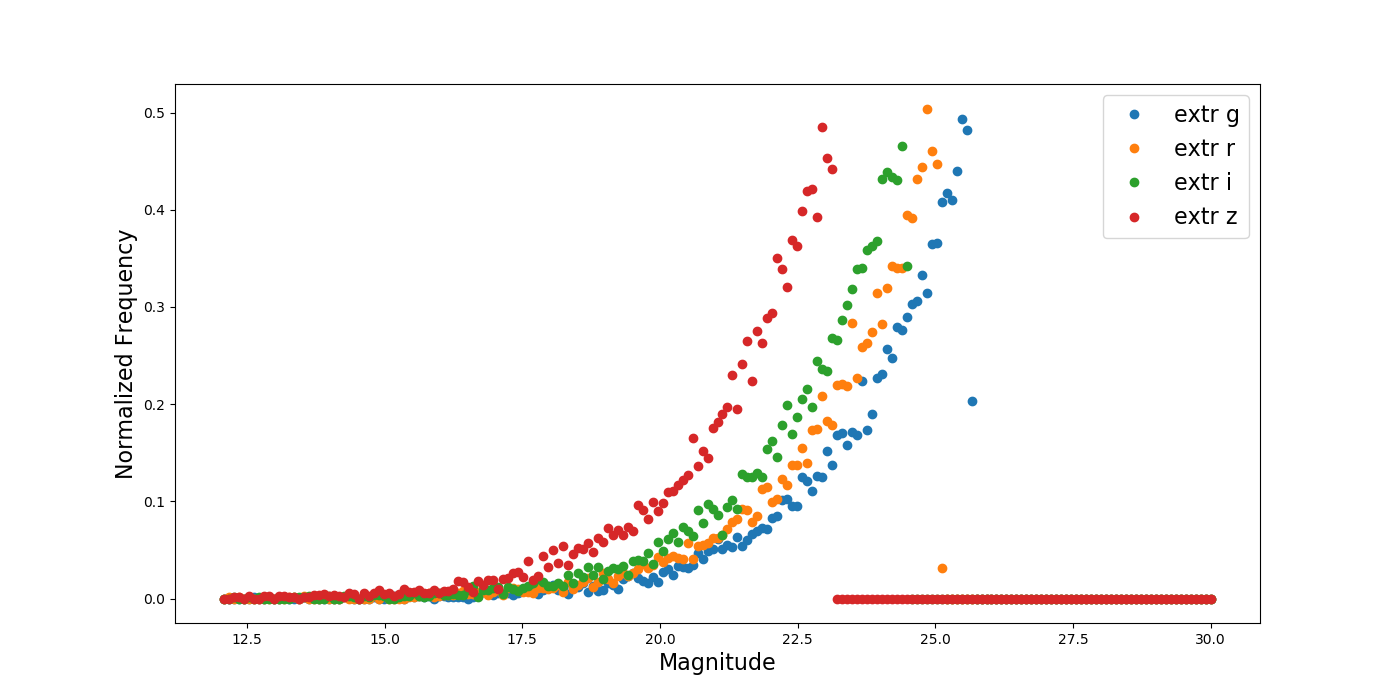
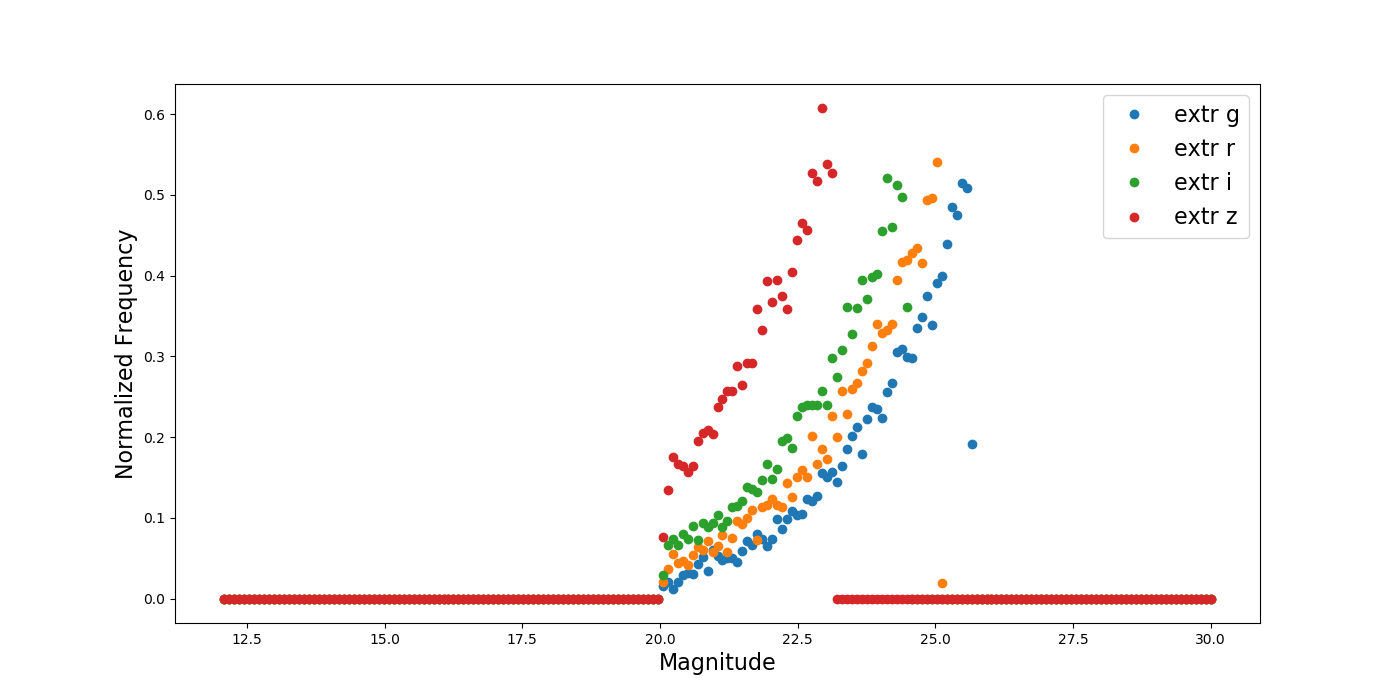
check sn explosion and gen_lightcurves, lightcurve class ready

diff --git a/lightcurve_sampling/lightcurves.py b/lightcurve_sampling/lightcurves.py
@@ -10,7 +10,6 @@ from custom_distribution import MagnitudeDistribution
 import matplotlib as mpl
 warnings.filterwarnings("ignore")
 
-
 class LightCurve(object):
     """Light curve main class"""
     def __init__(self, **kwargs):
@@ -18,7 +17,7 @@ class LightCurve(object):
         self.mag_generator = MagnitudeDistribution(**kwargs)
         self.bands = kwargs["bands"]
 
-    def generate_lightcurves(self, n_lightcurves, obs_days=None):
+    def generate_lightcurves(self, n_lightcurves, obs_days=None, distr_limits=None):
         """Returns a dictionary with keys per band with a list of light curves
         and dictionary with parameters of each light curve"""
         pass
@@ -29,13 +28,19 @@ class Asteroids(LightCurve):
     def __init__(self, **kwargs):
         super(Asteroids, self).__init__(**kwargs)
 
-    def generate_lightcurves(self, n_lightcurves, obs_days=None):
+    def generate_lightcurves(self, n_lightcurves, obs_days=None, distr_limits=None):
         if not obs_days:
             obs_days = self.observation_days
+        if distr_limits:
+            self.mag_generator.set_extrapolation_limits(distr_limits)
         lightcurves = {}
         mag_samples = self.mag_generator.sample(n_samples=n_lightcurves)
         time_samples = {}
         for band in self.bands:
+            if len(obs_days[band]) == 0:
+                mag_samples[band] = []
+                lightcurves[band] = np.array([])
+                continue
             time_samples[band] = np.random.randint(low=0, high=len(obs_days[band]))
             lightcurves[band] = np.ones(shape=(n_lightcurves, len(obs_days[band])))*40.0
             lightcurves[band][:, time_samples[band]] = mag_samples[band]
@@ -48,9 +53,11 @@ class Constant(LightCurve):
     def __init__(self,  mag_limit=25, **kwargs):
         super(Constant, self).__init__(**kwargs)
 
-    def generate_lightcurves(self, n_lightcurves, obs_days=None):
+    def generate_lightcurves(self, n_lightcurves, obs_days=None, distr_limits=None):
         if not obs_days:
             obs_days = self.observation_days
+        if distr_limits:
+            self.mag_generator.set_extrapolation_limits(distr_limits)
         lightcurves = {}
         mag_samples = self.mag_generator.sample(n_samples=n_lightcurves)
         for band in self.bands:
@@ -70,7 +77,6 @@ class RRLyrae(LightCurve):
         self.rrlyrae = fetch_rrlyrae()
         self.std_values = pandas.read_csv("lc_data/RRLYR_HiTS_std.csv")["Std"].values
         silverman_sigma = np.std(self.std_values)*np.power((4.0/3.0/len(self.std_values)), (1.0/5.0))
-        print(silverman_sigma)
         self.kde_sampler = KernelDensity(kernel="gaussian", bandwidth=silverman_sigma).fit(self.std_values[..., np.newaxis])
 
     def generate_single_lc(self, obs_days):
@@ -84,12 +90,14 @@ class RRLyrae(LightCurve):
         mag = {}
         error = np.clip(self.kde_sampler.sample(n_samples=1)[0, 0], a_min=0.011, a_max=None)
         for band in self.bands:
-            mag[band] = gen.generated(band, obs_days[band], err=error)
+            mag[band] = gen.generated(band, obs_days[band]+np.random.random_sample(), err=error)
         return mag, period
 
-    def generate_lightcurves(self, n_lightcurves, re_sampled=True, obs_days=None):
+    def generate_lightcurves(self, n_lightcurves, re_sampled=True, obs_days=None, distr_limits=None):
         if not obs_days:
             obs_days = self.observation_days
+        if distr_limits:
+            self.mag_generator.set_extrapolation_limits(distr_limits)
         lightcurves = {}
         params = {}
         lightcurves_list = []
@@ -107,6 +115,7 @@ class RRLyrae(LightCurve):
                 params[band].append(np.array([mag_samples[band][i], period]))
             lightcurves[band] = np.concatenate(lightcurves[band], axis=0)
             params[band] = params[band]
+            print("lightcurves type: "+str(type(lightcurves)))
         return lightcurves, params
 
 
@@ -127,14 +136,19 @@ class Supernovae(LightCurve):
         self.lc_path = kwargs["sn_lightcurves_path"]
         self.limmag = kwargs["limmag"]
         self.param_path = kwargs["sn_parameters_path"]
+        self.all_lightcurves = np.load(self.lc_path)
+        self.all_params = np.load(self.param_path)
 
-    def generate_lightcurves(self, n_lightcurves, obs_days=None):
+    def generate_lightcurves(self, n_lightcurves, obs_days=None, distr_limits=None, field="Field01", limmag=None):
         if not obs_days:
             obs_days = self.observation_days
+        if not limmag:
+            limmag = self.limmag
         filtered_lightcurves = {}
         parameters = {}
-        all_lightcurves_data = np.load(self.lc_path)
-        all_parameters_data = np.load(self.param_path)
+        all_lightcurves_data = self.all_lightcurves[field]
+        all_parameters_data = self.all_params[field]
+        available_bands = list(all_lightcurves_data[0].keys())
         for band in self.bands:
             filtered_lightcurves[band] = []
             parameters[band] = []
@@ -146,12 +160,18 @@ class Supernovae(LightCurve):
             current_lightcurve = lc
             detection_per_band = []
             for band in self.bands:
-                mag_diff = self.limmag[band] - current_lightcurve[band]
+                if not (band in available_bands):
+                    continue
+                mag_diff = limmag[band] - current_lightcurve[band]
                 valid_index = np.where(mag_diff > 0)[0]
                 detection_per_band.append(len(valid_index) > 0)
             if any(detection_per_band):
                 lc_count += 1
                 for band in self.bands:
+                    if not (band in available_bands):
+                        filtered_lightcurves[band].append([])
+                        parameters[band].append(np.array([]))
+                        continue
                     filtered_lightcurves[band].append(lc[band][np.newaxis, :])
                     if len(all_parameters_data.shape) >= 2:
                         parameters[band].append(all_parameters_data[..., i])
@@ -174,9 +194,11 @@ class EmptyLightCurve(LightCurve):
         super(EmptyLightCurve, self).__init__(**kwargs)
         self.mag = 50
 
-    def generate_lightcurves(self, n_lightcurves, obs_days=None):
+    def generate_lightcurves(self, n_lightcurves, obs_days=None, distr_limits=None):
         if not obs_days:
             obs_days = self.observation_days
+        if distr_limits:
+            self.mag_generator.set_extrapolation_limits(distr_limits)
         params = {}
         lightcurves = {}
         for band in self.bands:
@@ -193,22 +215,94 @@ if __name__ == "__main__":
 
     cam_obs_cond = np.load("../real_obs/camera_and_obs_cond.pkl")
     obs_cond = cam_obs_cond["obs_conditions"]["Field01"]
+    print(obs_cond[0].keys())
     bands = ["g", "r", "i"]
     load_distribution = True
-    extrapolation_limits = {'g': [12, 25.602089154033994], 'r': [12, 25.029324900291915], 'i': [12, 24.45150161567846], 'z': [12, 23.122699702058064]}
+    shift_limit = -2
+    extrapolation_limits = {'g': [20, 25.602089154033994+shift_limit], 'r': [20, 25.029324900291915+shift_limit],
+                            'i': [20, 24.45150161567846+shift_limit], 'z': [20, 23.122699702058064+shift_limit]}
 
     obs_days = {"g": [], "r": [], "i": []}
+    limmag = {"g": [], "r": [], "i": []}
 
     for epoch in obs_cond:
-        obs_days[epoch["filter"]] = epoch["obs_day"]
+        obs_days[epoch["filter"]].append(epoch["obs_day"])
+        limmag[epoch["filter"]].append(epoch["limmag5"])
+
+    for band in bands:
+        obs_days[band] = np.array(obs_days[band])
+        limmag[band] = np.array(limmag[band])
+        ordered_index = np.argsort(obs_days[band])
+        obs_days[band] = obs_days[band][ordered_index]
+        limmag[band] = limmag[band][ordered_index]
+        print("average limit of magnitude band "+band)
+        print(np.mean(limmag[band]))
+
+
+    #print(obs_days)
+    #print(limmag)
 
     rrlyrae_gen = RRLyrae(observation_days=obs_days,
                           load_distr=load_distribution,
                           extrapolation_limit=extrapolation_limits,
                           bands=bands)
+    rrlyrae_lc, params = rrlyrae_gen.generate_lightcurves(10)
 
-    rrlyrae_gen.generate_lightcurves(100)
+    asteroids_gen = Asteroids(observation_days=obs_days,
+                                      load_distr=load_distribution,
+                                      extrapolation_limit=extrapolation_limits,
+                                      bands=bands)
+
+    asteroids_lc, params = asteroids_gen.generate_lightcurves(10, obs_days=obs_days, distr_limits=extrapolation_limits)
+
+    constant_gen = Constant(observation_days=obs_days,
+                          load_distr=load_distribution,
+                          extrapolation_limit=extrapolation_limits,
+                          bands=bands)
 
 
+    # extrapolation_limits = {'g': [23, 23.1], 'r': [20, 21],
+    #                         'i': [20, 21], 'z': [20, 21]}
+
+    constant_lc, params = constant_gen.generate_lightcurves(10, obs_days=obs_days, distr_limits=extrapolation_limits)
+
+    cepheids_gen = M33Cepheids(observation_days=obs_days,
+                               load_distr=load_distribution,
+                               extrapolation_limit=extrapolation_limits,
+                               bands=bands,
+                               M33_cepheids_path="./lc_data/cepheid_gps.pkl")
+
+    cepheids_lc, params = cepheids_gen.generate_lightcurves(10)
+
+    empty_gen = EmptyLightCurve(observation_days=obs_days,
+                               load_distr=load_distribution,
+                               extrapolation_limit=extrapolation_limits,
+                               bands=bands)
+
+    empty_lc, params = empty_gen.generate_lightcurves(10)
+
+    print(limmag.keys())
+
+    sn_gen = Supernovae(observation_days=obs_days,
+                        load_distr=load_distribution,
+                        extrapolation_limit=extrapolation_limits,
+                        bands=bands,
+                        limmag=limmag,
+                        sn_lightcurves_path="/home/rodrigo/supernovae_detection/surveysim/pickles/hits_lightcures.pkl",
+                        sn_parameters_path="/home/rodrigo/supernovae_detection/surveysim/pickles/hits_params.pkl")
+    sn_lc, params = sn_gen.generate_lightcurves(10)
+
+    plt.plot(obs_days["g"], rrlyrae_lc["g"][0, :], label="RRLyra")
+    plt.plot(obs_days["g"], asteroids_lc["g"][0, :], label="Asteroid")
+    plt.plot(obs_days["g"], constant_lc["g"][0, :], label="NonVariable")
+    plt.plot(obs_days["g"], cepheids_lc["g"][0, :], label="Cepheid")
+    plt.plot(obs_days["g"], sn_lc["g"][0, :], label="Supernovae")
+
+
+    plt.xlabel("obs day")
+    plt.ylabel("magnitude")
+    plt.ylim([27, 20])
+    plt.legend()
+    plt.show()
 
     print("wena")

diff --git a/lightcurve_sampling/cepheids.py b/lightcurve_sampling/cepheids.py
@@ -11,7 +11,7 @@ class Cepheids(LightCurve):
         self.lc_path = kwargs["cepheids_path"]
 
     def generate_lightcurves(self, n_lightcurves, re_sampled=True):
-        data = np.load(self.lc_path)
+        data = np.load(self.lc_path, encoding="latin1")
         mag_samples = self.mag_generator.sample(n_lightcurves)
         lightcurves = {}
         params = {}
@@ -34,8 +34,8 @@ class M33Cepheids(LightCurve):
     def __init__(self, **kwargs):
         super(M33Cepheids, self).__init__(**kwargs)
         self.lc_path = kwargs["M33_cepheids_path"]
-        self.lc_gps = np.load(self.lc_path)
-        self.av_bands = self.lc_gps["stats"][0].keys()
+        self.lc_gps = np.load(self.lc_path, encoding="latin1")
+        self.av_bands = list(self.lc_gps["stats"][0].keys())
 
     def generate_single_lc(self, obs_days):
         lc_id = randint(0, len(self.lc_gps["index"])-1)
@@ -47,16 +47,22 @@ class M33Cepheids(LightCurve):
         mag_values = self.mag_generator.sample(1)
         mag = {}
         for band in self.bands:
+            if len(obs_days[band]) == 0:
+                mag[band] = np.array([])
+                #period = np.array([])
+                continue
             if not (band in self.av_bands):
                 raise ValueError('M33 survey does not have '+band+' band')
-            phase = np.mod(self.observation_days[band]+np.random.random_sample(), period)*(1.0/period)
+            phase = np.mod(obs_days[band]+np.random.random_sample(), period)*(1.0/period)
             lc = gp[band].predict(X=phase[:, np.newaxis])#, return_cov=True)#, n_samples=1, random_state=randint(0, 10000))
             mag[band] = lc*stats[band][1] + mag_values[band][0] #+ np.random.normal(loc=0, scale=np.sqrt(np.diag(cov)))*0.1
         return mag, period
 
-    def generate_lightcurves(self, n_lightcurves,  obs_days=None):
+    def generate_lightcurves(self, n_lightcurves,  obs_days=None, distr_limits=None):
         if not obs_days:
             obs_days = self.observation_days
+        if distr_limits:
+            self.mag_generator.set_extrapolation_limits(distr_limits)
         lightcurves = {}
         params = {}
         lightcurves = {}

diff --git a/lightcurve_sampling/custom_distribution.py b/lightcurve_sampling/custom_distribution.py
@@ -67,6 +67,9 @@ class MagnitudeDistribution(object):
     def load_coef(self):
         self.coef_per_band = np.load("lc_data/distr_coef.pkl")
 
+    def set_extrapolation_limits(self, limits):
+        self.extrapolation_limit = limits
+
     def sample(self, n_samples):
         samples = {}
         for band in self.bands:
@@ -93,7 +96,8 @@ if __name__ == "__main__":
     bands = ["g", "r", "i", "z"]
     extend_fit = 0
     load_distribution = True
-    extrapolation_limits = {'g': [12, 25.602089154033994], 'r': [12, 25.029324900291915], 'i': [12, 24.45150161567846], 'z': [12, 23.122699702058064]}
+    extrapolation_limits = {'g': [20, 25.602089154033994], 'r': [20, 25.029324900291915],
+                            'i': [20, 24.45150161567846], 'z': [20, 23.122699702058064]}
 
     # fit_limits = {"z": [17.5, 20+extend_fit],
     #               "u": [16, 21+extend_fit],
@@ -107,9 +111,13 @@ if __name__ == "__main__":
                                                 bands=bands,
                                                 load_distr=load_distribution)
 
+    print(extrapolation_limits)
+    print(object_distribution.extrapolation_limit)
+
     bins = np.linspace(12, 30, 200)
     coefs = object_distribution.coef_per_band
     samples = object_distribution.sample(n_samples=10000)
+    print(type(samples))
     mpl.style.use("default")
     f, ax = plt.subplots(1, 1, figsize=(14, 7))
     # print(samples)
